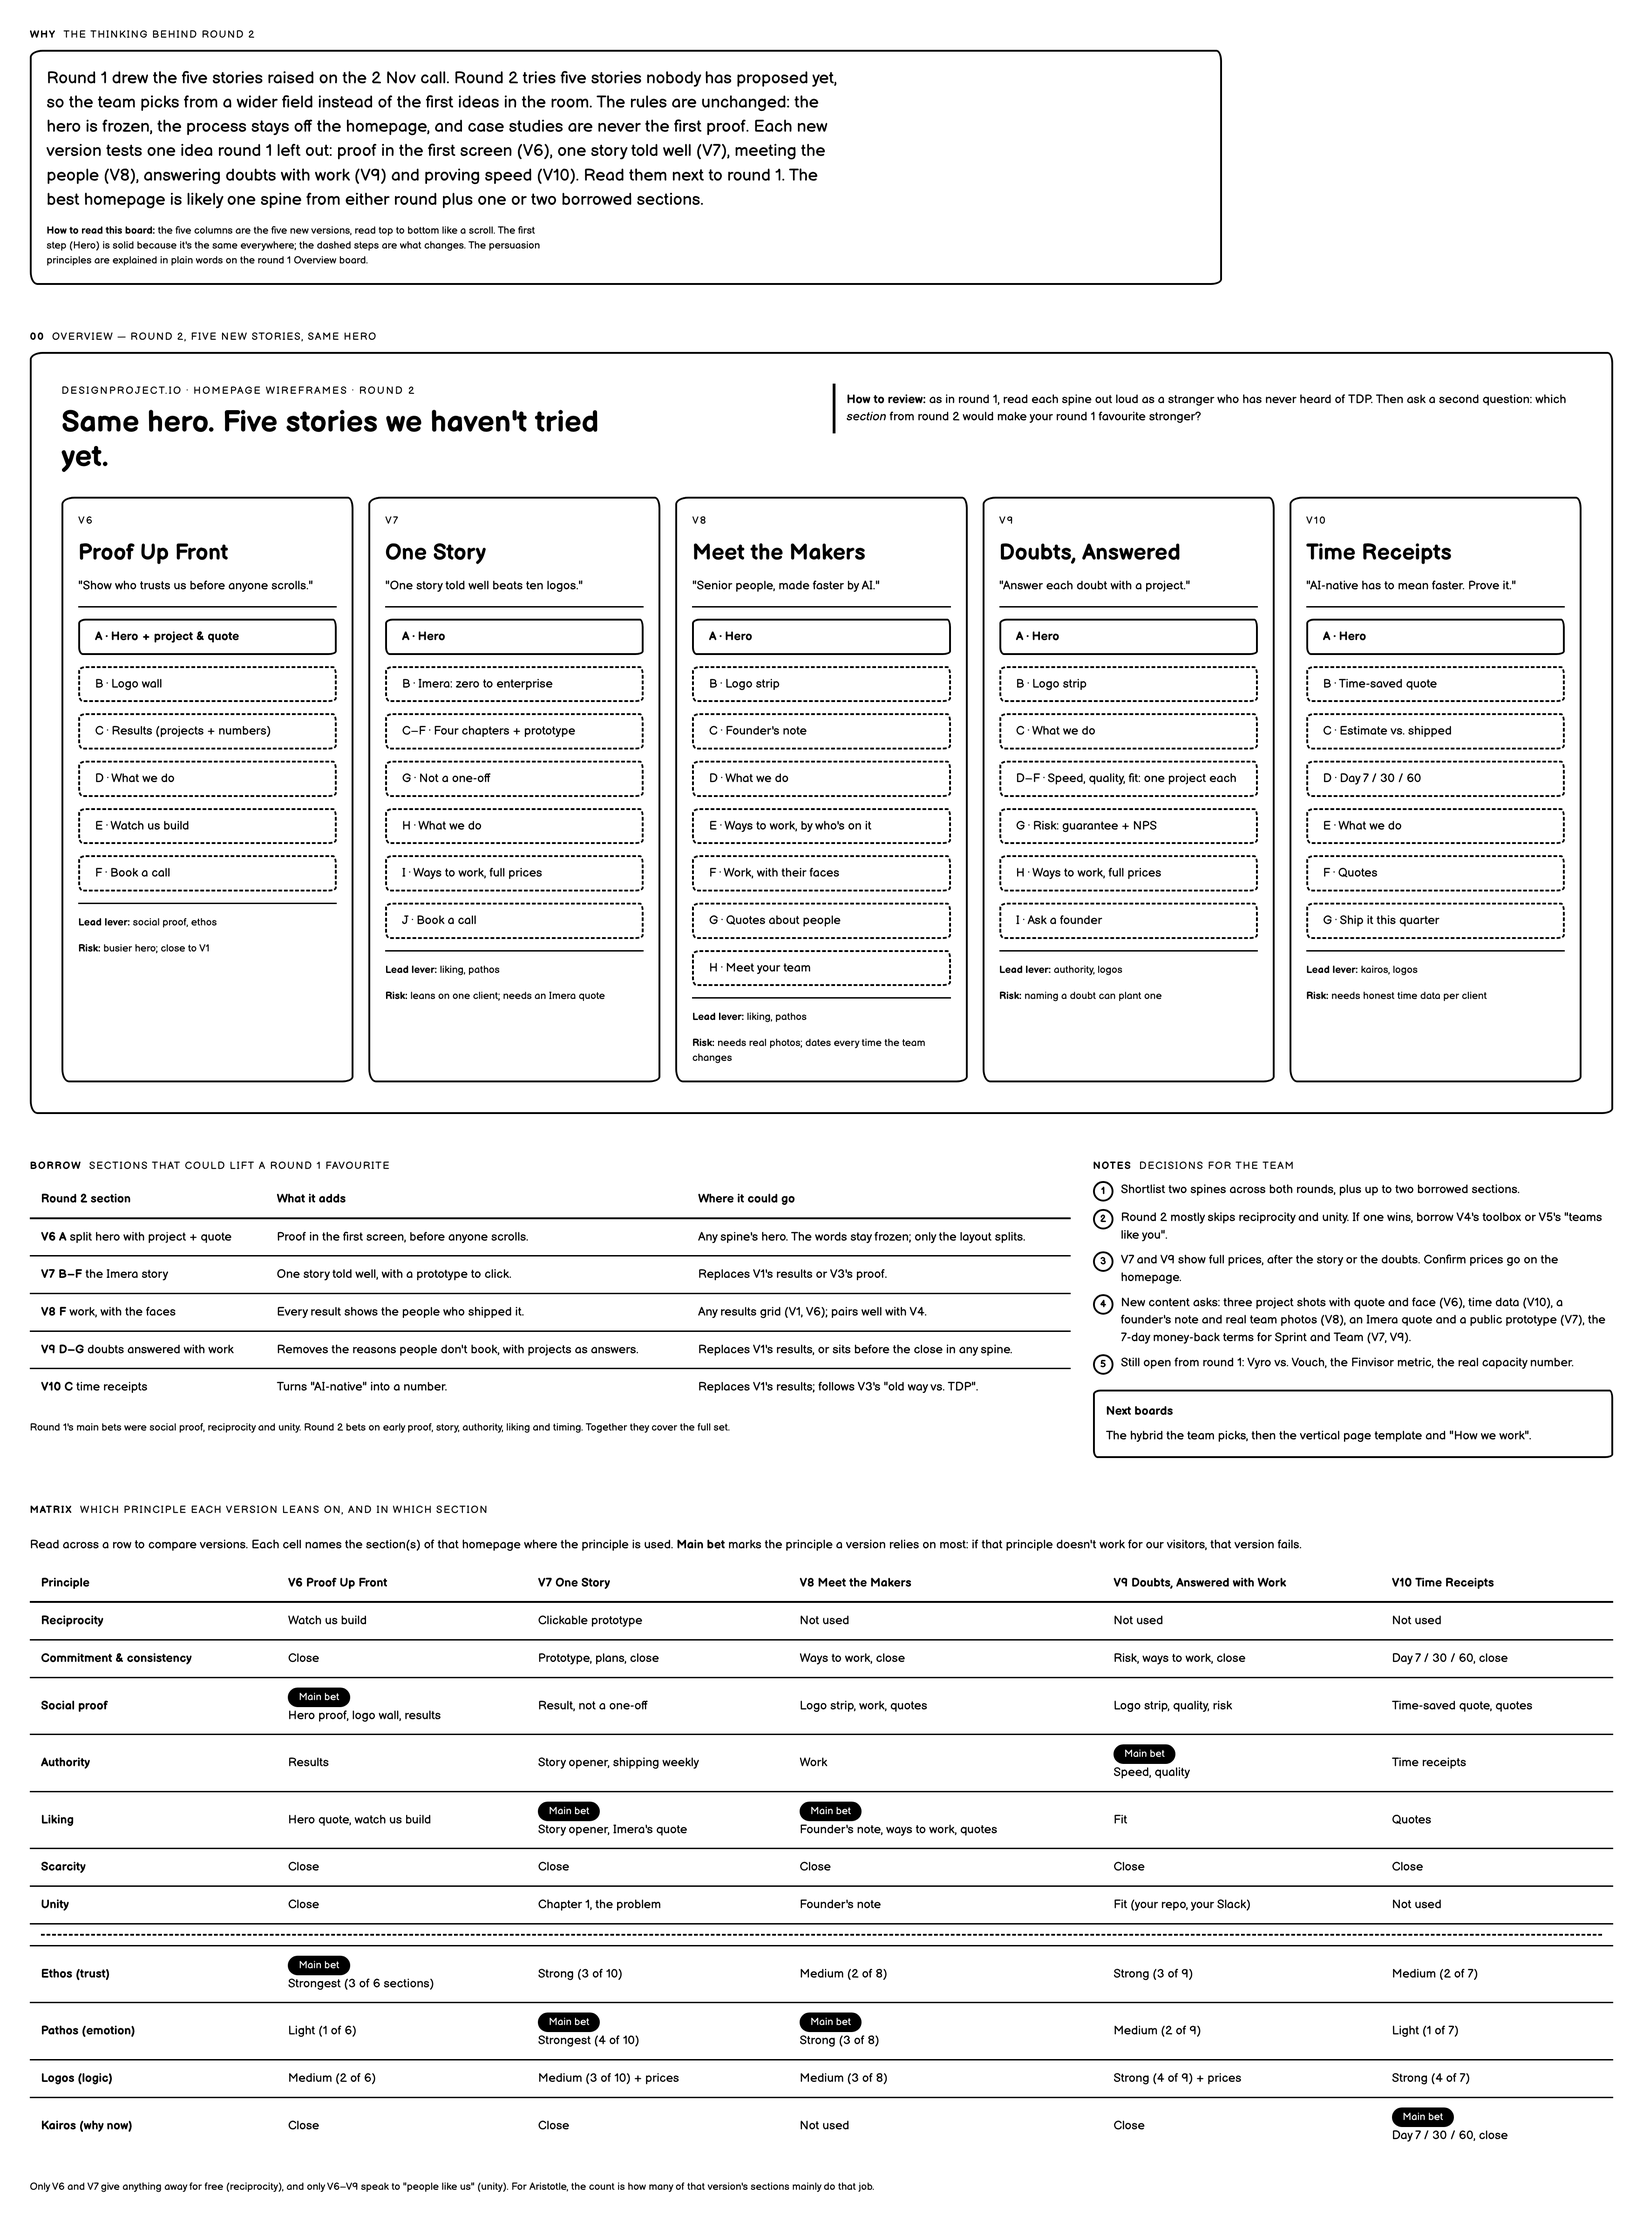
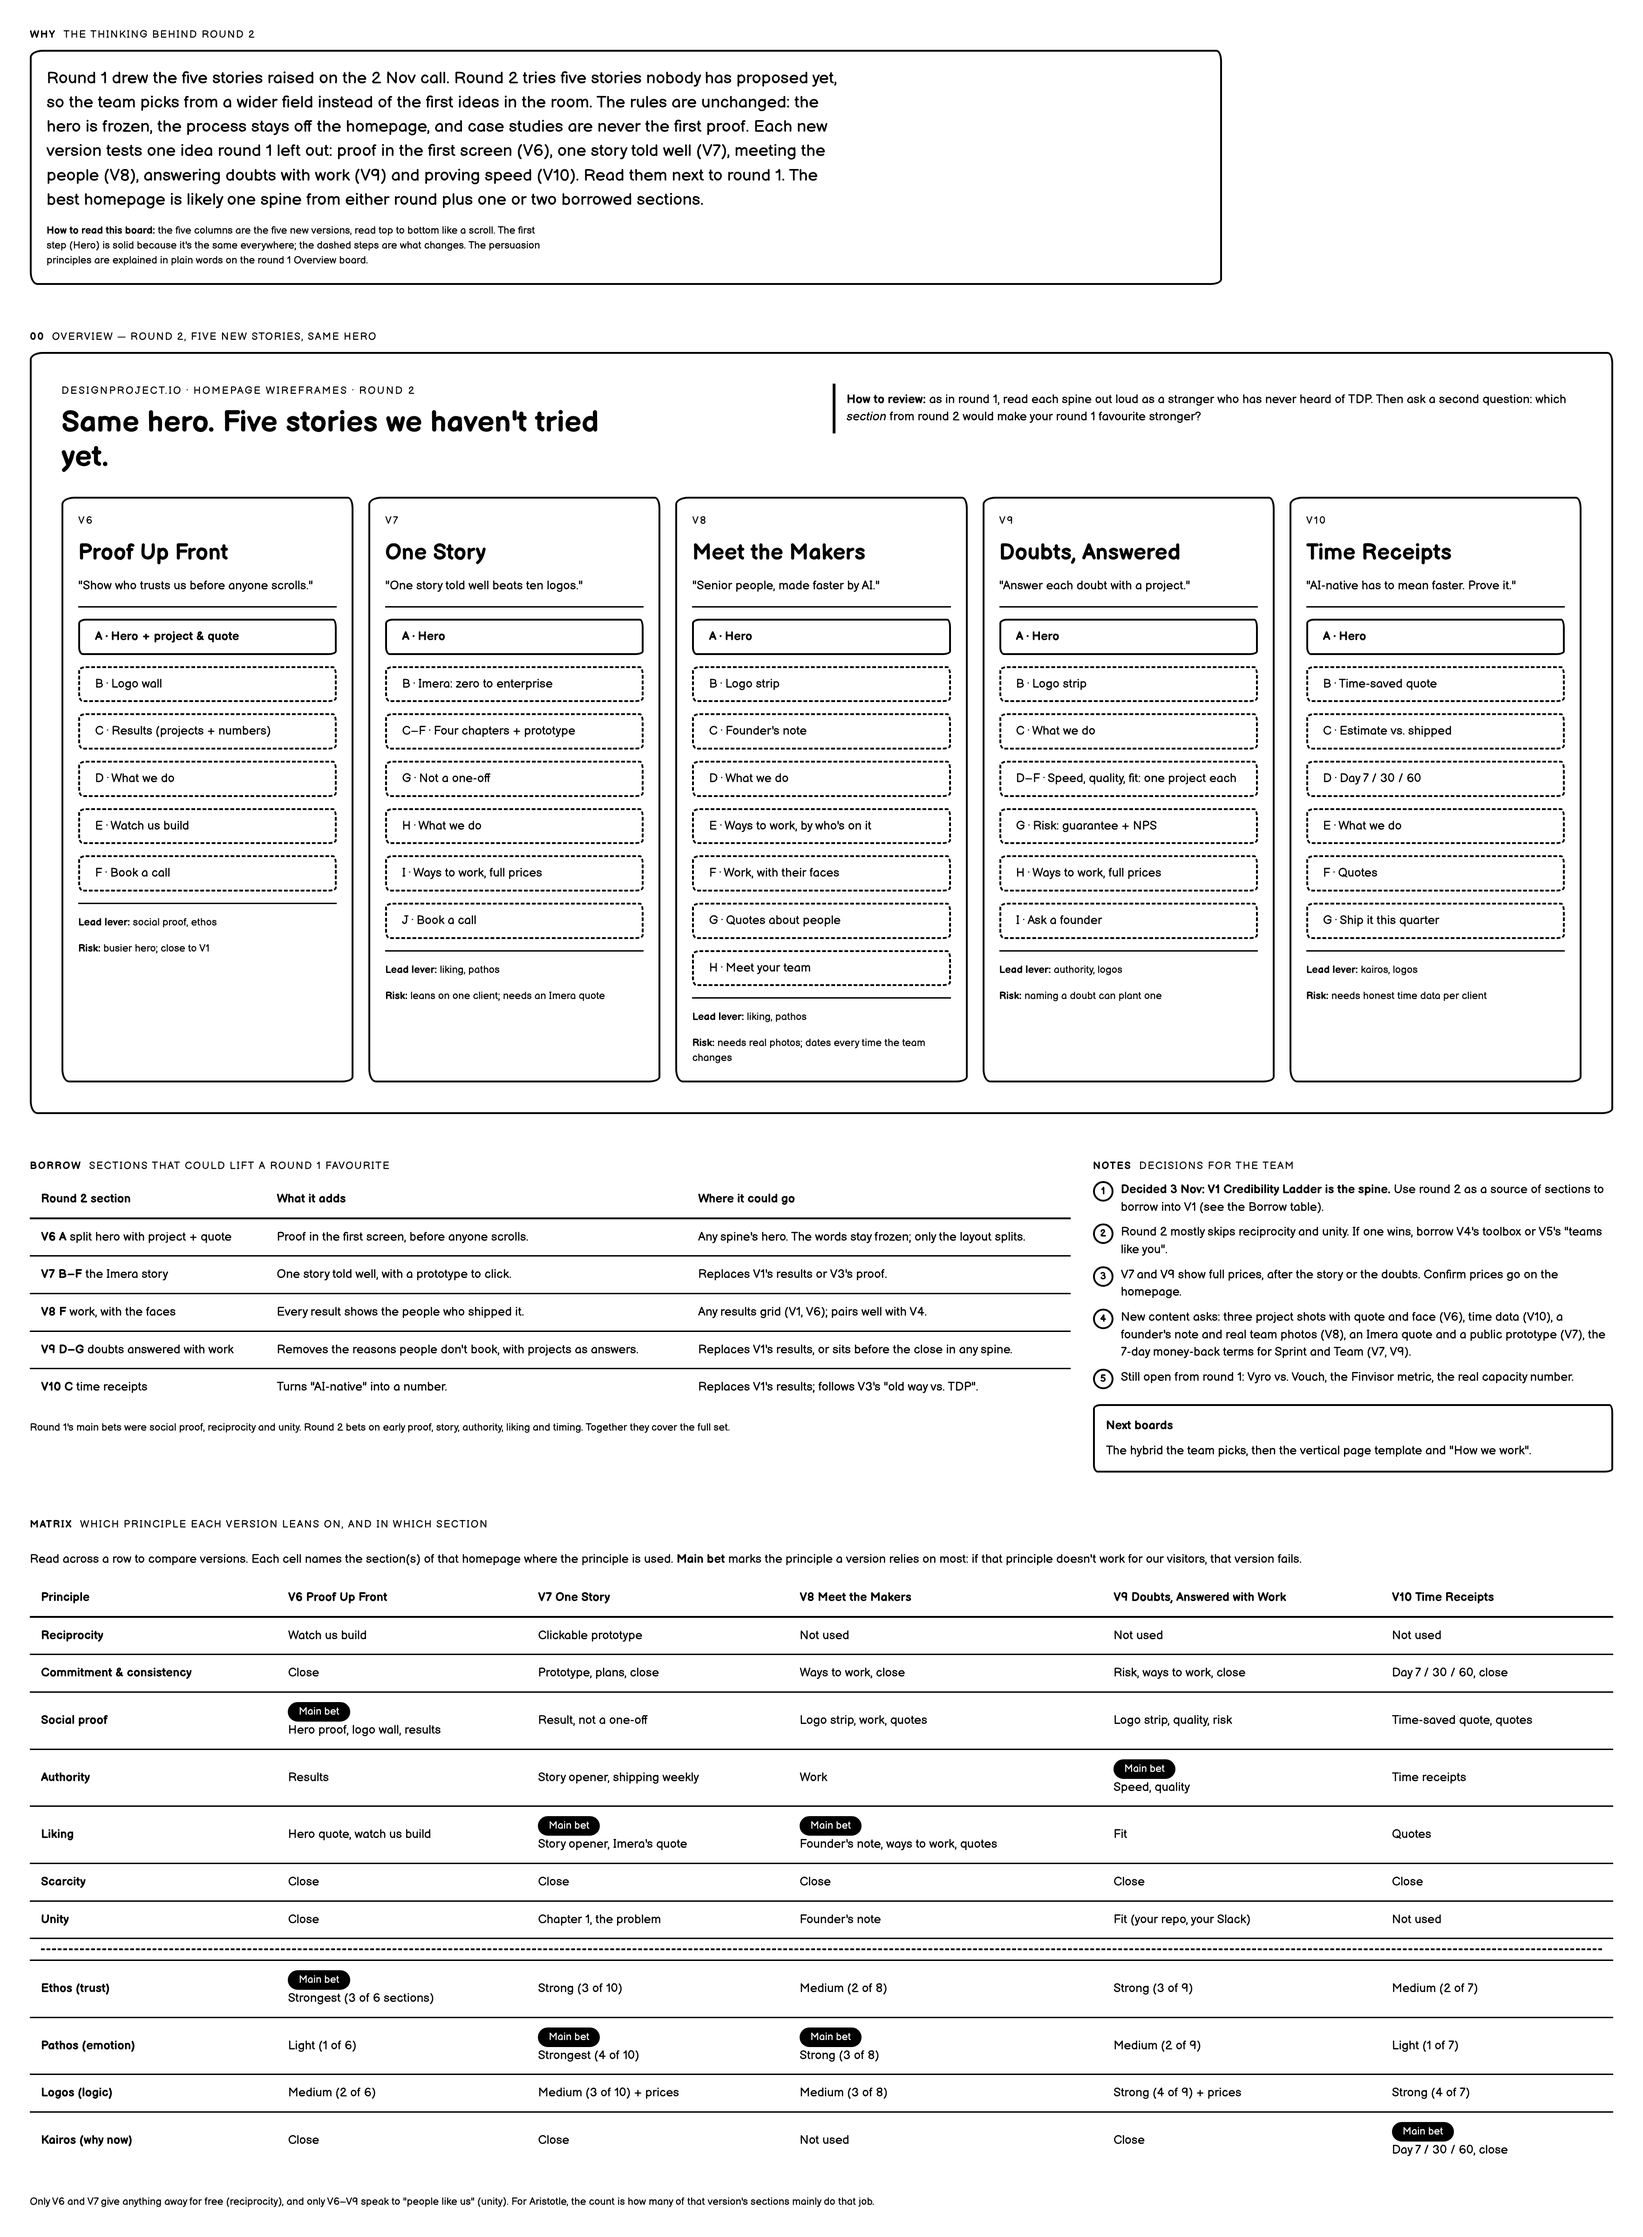
feat(site): bring round 2 into the index under the V1 decision
Round 2 (V6–V10, by Leomar) joins the site as a second exploration group under
the chosen V1. site.json can now title a project's board list, and projects are
listed in name order. The round 2 overview and README record that V1 is the
spine and round 2 is a source of sections to borrow; round 1's README links to it.

diff --git a/wireframes/designproject-io-round-2/00-overview.standalone.html b/wireframes/designproject-io-round-2/00-overview.standalone.html
@@ -817,7 +817,7 @@ small { font-size: var(--fs-xs); }
     <section>
       <div class="screen__caption"><b>Notes</b> decisions for the team</div>
       <ol class="notes">
-        <li><span class="pin">1</span><span>Shortlist two spines across both rounds, plus up to two borrowed sections.</span></li>
+        <li><span class="pin">1</span><span><strong>Decided 3 Nov: V1 Credibility Ladder is the spine.</strong> Use round 2 as a source of sections to borrow into V1 (see the Borrow table).</span></li>
         <li><span class="pin">2</span><span>Round 2 mostly skips reciprocity and unity. If one wins, borrow V4's toolbox or V5's "teams like you".</span></li>
         <li><span class="pin">3</span><span>V7 and V9 show full prices, after the story or the doubts. Confirm prices go on the homepage.</span></li>
         <li><span class="pin">4</span><span>New content asks: three project shots with quote and face (V6), time data (V10), a founder's note and real team photos (V8), an Imera quote and a public prototype (V7), the 7-day money-back terms for Sprint and Team (V7, V9).</span></li>

diff --git a/wireframes/designproject-io-round-2/00-overview.html b/wireframes/designproject-io-round-2/00-overview.html
@@ -142,7 +142,7 @@
     <section>
       <div class="screen__caption"><b>Notes</b> decisions for the team</div>
       <ol class="notes">
-        <li><span class="pin">1</span><span>Shortlist two spines across both rounds, plus up to two borrowed sections.</span></li>
+        <li><span class="pin">1</span><span><strong>Decided 3 Nov: V1 Credibility Ladder is the spine.</strong> Use round 2 as a source of sections to borrow into V1 (see the Borrow table).</span></li>
         <li><span class="pin">2</span><span>Round 2 mostly skips reciprocity and unity. If one wins, borrow V4's toolbox or V5's "teams like you".</span></li>
         <li><span class="pin">3</span><span>V7 and V9 show full prices, after the story or the doubts. Confirm prices go on the homepage.</span></li>
         <li><span class="pin">4</span><span>New content asks: three project shots with quote and face (V6), time data (V10), a founder's note and real team photos (V8), an Imera quote and a public prototype (V7), the 7-day money-back terms for Sprint and Team (V7, V9).</span></li>

diff --git a/wireframes/designproject-io/README.md b/wireframes/designproject-io/README.md
@@ -3,7 +3,8 @@
 Five homepage structures for the new designproject.io, drawn with the `create-wireframe`
 skill (Balsamiq Sans, black on white). Start with the overview, then open any version.
 
-**Decision (3 Nov 2026): V1 Credibility Ladder.** The other four stay here as explorations.
+**Decision (3 Nov 2026): V1 Credibility Ladder.** The other four stay here as explorations. Round 2 ([`../designproject-io-round-2`](../designproject-io-round-2/README.md))
+adds five more directions (V6–V10) and a table of sections worth borrowing into V1.
 
 | Board | Story | Hypothesis it tests |
 |---|---|---|

diff --git a/wireframes/designproject-io-round-2/README.md b/wireframes/designproject-io-round-2/README.md
@@ -6,6 +6,10 @@ raised on the 2 Nov call ([`../designproject-io`](../designproject-io/README.md)
 tries five stories nobody proposed yet, so the team picks from a wider field. Start with the
 overview, then open any version.
 
+**Decision (3 Nov 2026): V1 Credibility Ladder from round 1 is the chosen spine.** Round 2
+stays as explorations; its overview's **Borrow** table lists the sections that could make
+V1 stronger.
+
 | Board | Story | Hypothesis it tests |
 |---|---|---|
 | [00 Overview](00-overview.png) | all five spines, sections worth borrowing, principle matrix | — |
